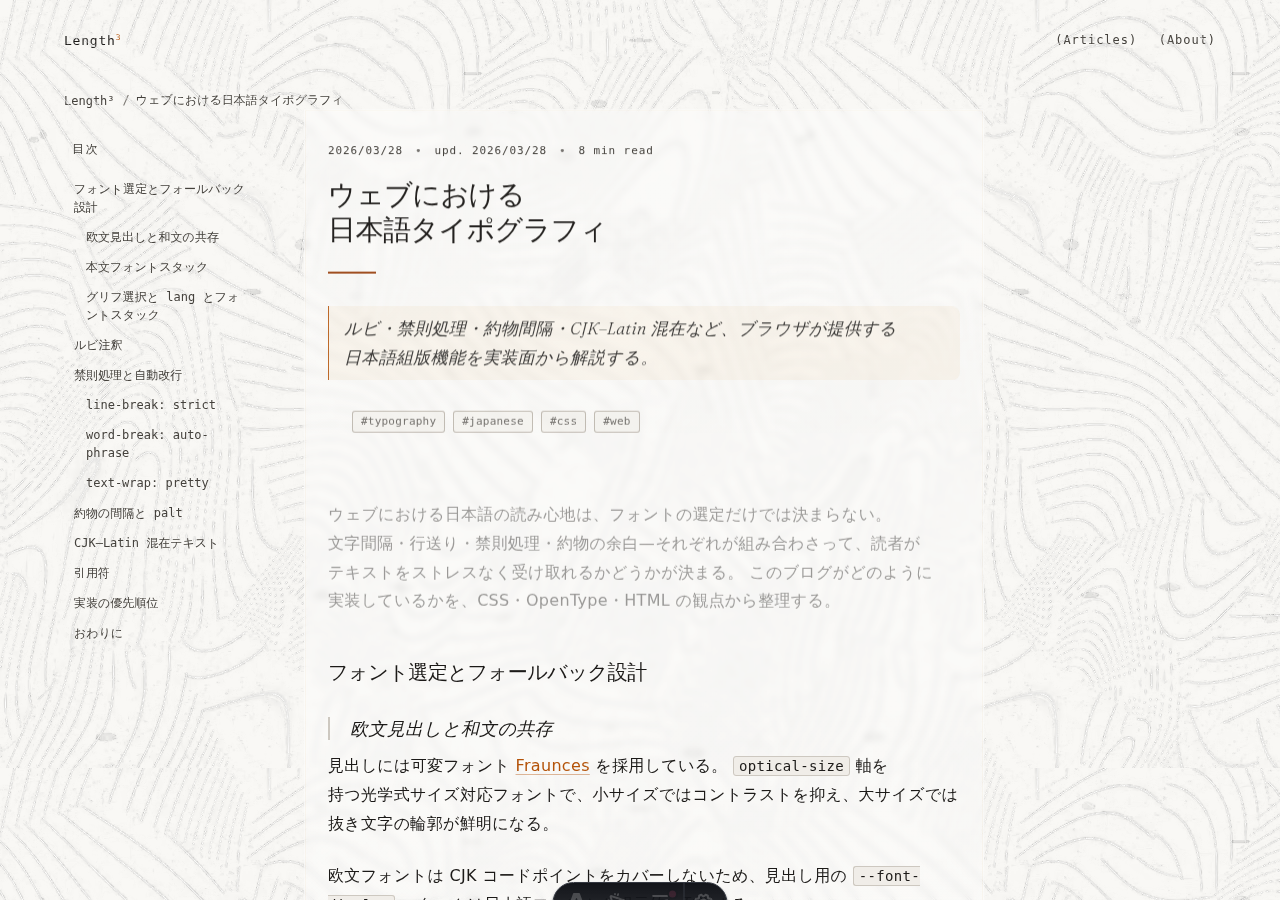
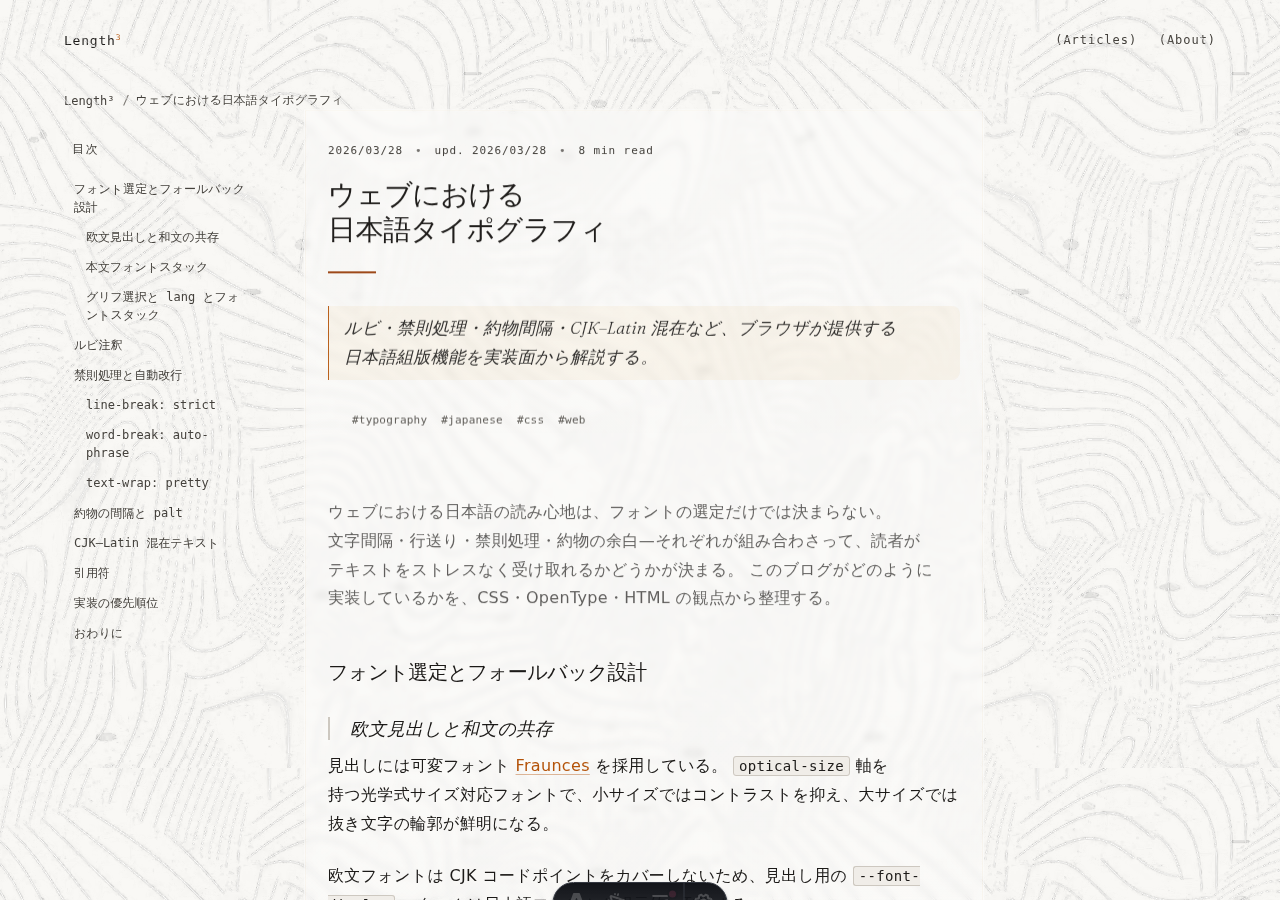
Unbox the tags and start syncing the spec
- タグを枠のない文字列にした (spec §4)。一覧カードは 1 件あたり 5 個の矩形が
  並び、タイトルより先にタグの枠が目に入っていた。枠と地を外し、語間は余白で
  切る。押せる範囲は padding で確保する
- markup から参照されていない .tag-pill--quiet 変種を削除した
- spec の追従を開始。本文サイズを流体 15–16px に、モバイルの 16px 下限は
  フォームコントロールに限る旨へ書き換えた（iOS の auto-zoom は入力欄の話で、
  本文には掛からない）

Claude-Session: https://claude.ai/code/session_01G5C6P8dDNB8eisDQfpMGfx

diff --git a/src/styles/layout.css b/src/styles/layout.css
@@ -231,21 +231,24 @@
   display: flex;
   justify-content: flex-start;
   flex-wrap: wrap;
-  gap: 0.375rem 0.5rem;
+  /* 枠がないぶん、語と語の間は余白で切る。 */
+  gap: 0.125rem 0.875rem;
   list-style: none;
   padding: 0;
   margin: 0;
 }
 
+/* タグは枠のない文字列で出す (spec §4)。1 件あたり 5 個の枠が並ぶと、
+   一覧ではタイトルより先にタグの矩形が目に入ってしまう。押せる範囲は
+   縦 24px (WCAG 2.5.8 のターゲット下限) を padding で確保する。 */
 .tag-pill {
   position: relative;
   display: inline-flex;
   align-items: center;
-  min-height: 1.375rem;
-  padding: 0.1875rem 0.5rem;
-  border: 0.0625rem solid var(--surface-border);
-  border-radius: var(--radius-sm);
-  background: var(--surface-fill);
+  min-height: 1.5rem;
+  padding: 0.25rem 0;
+  border: none;
+  background: none;
   font-family: var(--font-mono);
   font-size: 0.6875rem;
   line-height: 1.15;
@@ -261,44 +264,15 @@
 .tag-pill:hover,
 .tag-pill:active {
   color: var(--amber-text);
-  border-color: rgba(180, 83, 9, 0.3); /* --amber-text @ 30% */
-  background: var(--surface-fill-strong);
-}
-
-.tag-pill-list--quiet {
-  gap: 0.4rem 0.8rem;
-}
-
-.tag-pill--quiet {
-  min-height: auto;
-  padding: 0;
-  border: none;
-  border-radius: 0;
-  background: none;
-  box-shadow: none;
-  color: var(--ink-2);
-  font-size: 0.6875rem;
-  letter-spacing: 0.08em;
-}
-
-.tag-pill--quiet:hover,
-.tag-pill--quiet:active {
-  color: var(--amber-text);
-  border: none;
-  background: none;
 }
 
 .tag-pill-overflow {
-  color: var(--ink-2);
-  border-color: var(--surface-line);
-  background: none;
+  color: var(--ink-3);
 }
 
 .tag-pill-overflow:hover,
 .tag-pill-overflow:active {
   color: var(--ink-2);
-  border-color: var(--surface-border);
-  background: none;
 }
 
 @media (pointer: coarse) {

diff --git a/docs/specs/ui-spec.md b/docs/specs/ui-spec.md
@@ -85,7 +85,7 @@ Previous iterations used `0.9rem` (≈14.4px) for body text. This is revised upw
 | H2                            | 1.25rem (20px)   | Fraunces        | 400        | 1.3         |
 | H3                            | 1.1rem (17.6px)  | Fraunces        | 400 italic | 1.3         |
 | Body prose                    | 1rem (16px)      | system-ui       | 400        | 1.8         |
-| Body prose (< 720px)          | 1rem (16px)      | system-ui       | 400        | 1.75        |
+| Body prose (< 720px)          | fluid 15–16px    | system-ui       | 400        | 1.75        |
 | Lead / Lede                   | 1.05rem (16.8px) | Fraunces italic | 300        | 1.9         |
 | UI label                      | 0.75rem (12px)   | JetBrains Mono  | 400        | —           |
 | Code inline                   | 0.88em           | JetBrains Mono  | 400        | —           |
@@ -377,7 +377,12 @@ The "breathing" right margin in the article layout is not infinitely compressibl
 
 ### Mobile Requirements
 
-- No font size below 16px (prevents iOS Safari auto-zoom on input focus)
+- No **form control** below 16px — Safari on iOS zooms the viewport when a field
+  smaller than that takes focus. The search input is therefore pinned at 1rem
+- Body prose is fluid between 15px and 16px below 480px:
+  `clamp(0.9375rem, calc((100vw - 2.5rem) / 23.5), 1rem)`. The divisor targets a
+  23-character Japanese line; at 390px that is 22.9 characters against 21.4 at a
+  flat 16px. 15px is the floor — prose never goes below it
 - All tap targets ≥ 44 × 44px
 - Line length self-regulates (viewport width naturally constrains it)
 
